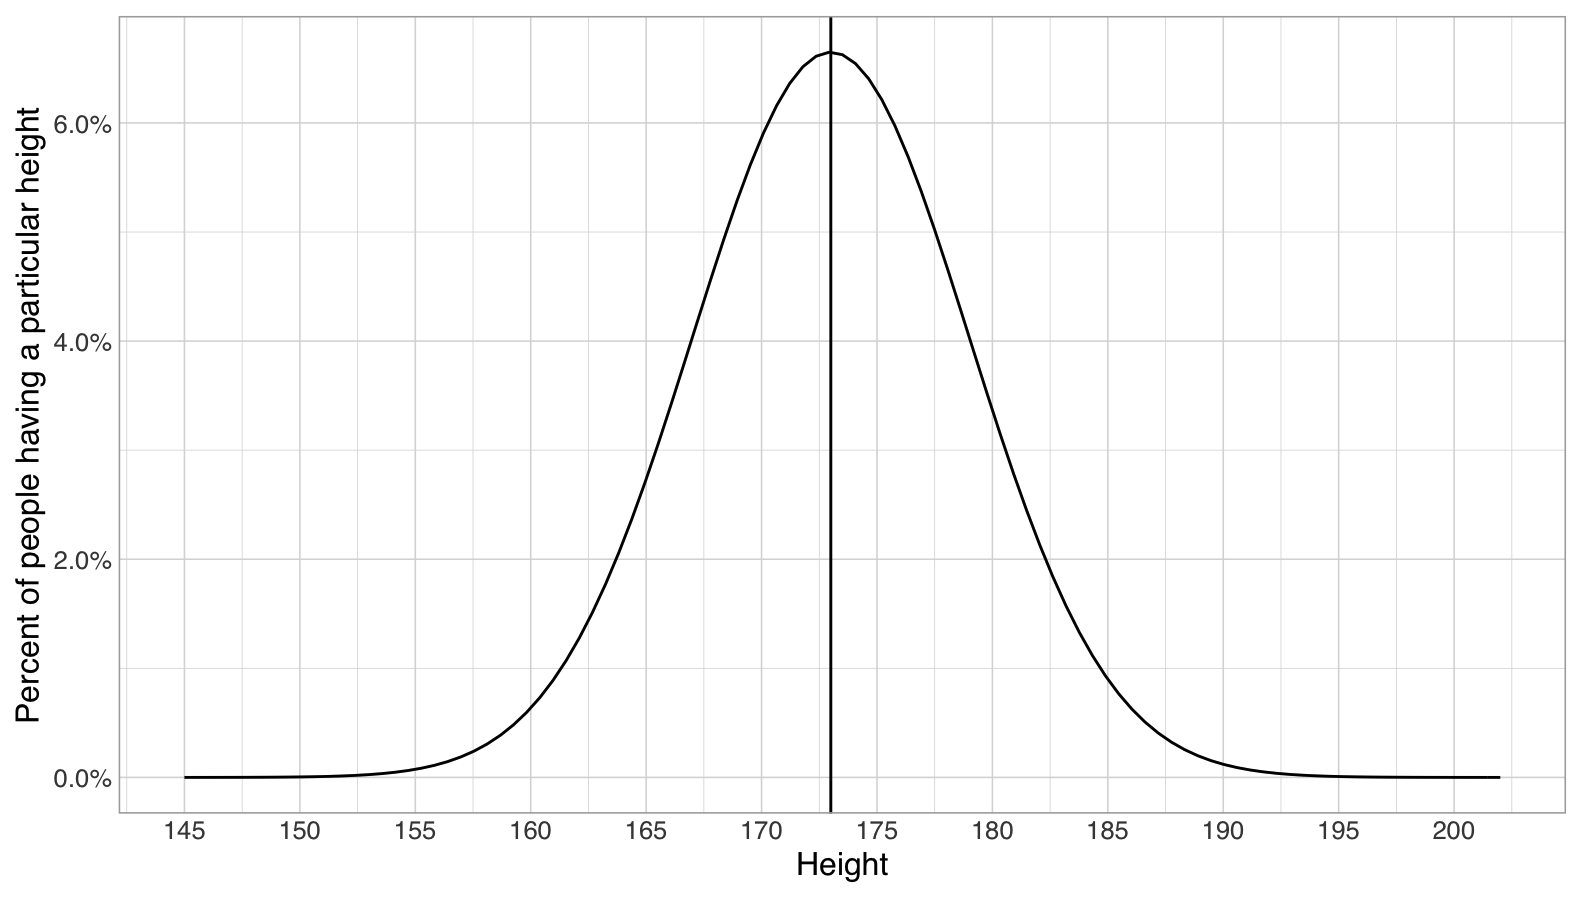
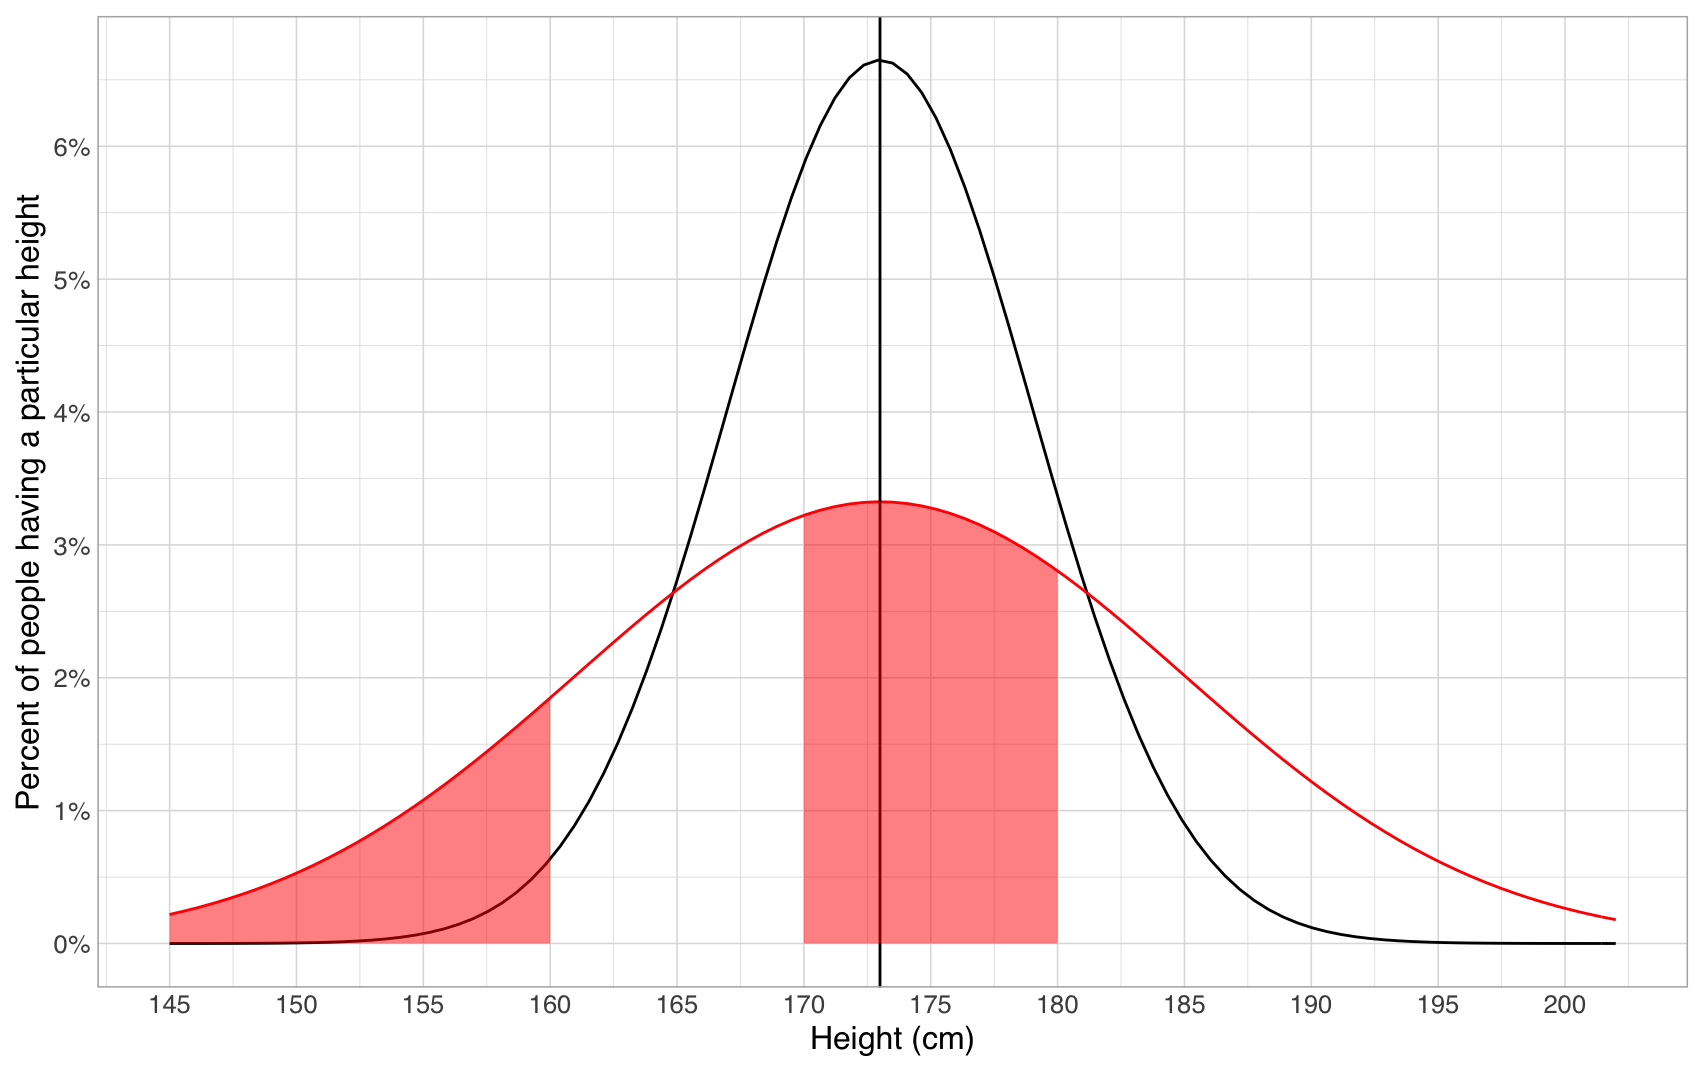
GitBook: [#190] update stats

diff --git a/data-analysis-fundamental-concepts-of-statistics.md b/data-analysis-fundamental-concepts-of-statistics.md
@@ -24,45 +24,57 @@ As a table, this tells us information about each individual. Further, we might o
 
 However, what if we want to look at the data as a whole, to see what it tells us about the lifespans of Finns as a whole? For this, we need to turn to statistics. Let us start with a simple visualization that just takes all two million people and plots their ages at death in increasing order:&#x20;
 
-![Ages at death of two million Finns, ordered by age at death](<.gitbook/assets/image (25).png>)
+![Ages at death of two million Finns, ordered by age at death](<.gitbook/assets/9795e3a8-c993-4487-a8be-92663c60d479 (1).png>)
 
-While this is not the way these types of data are usually presented, what does this visualization tell us? First, one can read proportions out of it. Because the people are ordered by age at death, looking at the midpoint of the graph (around the 1st millionth person) and looking at the age recorded there (around 77), we can say that 50% of Finns live to be older than 77. This works for any percentage: looking at around 100 000 (5% of 2 000 000) and finding the number 41, we can say that only 5% of Finns die before reaching that age, while looking at 1 800 000, we can conclude that only 10% of Finns live longer than 90 years.&#x20;
+While this is not the way these types of data are usually presented, what does this visualization tell us? First, one can read proportions out of it. Because the people are ordered by age at death, looking at the midpoint of the graph (around the 1st millionth person) and looking at the age recorded there (around 77), we can say that 50% of Finns live to be older than 77. This works for any percentage: looking at around 200 000 (10% of 2 000 000) and finding the number 52, we can say that only 10% of Finns die before reaching that age, while looking at 1 800 000, we can conclude that only 10% of Finns live longer than 90 years.&#x20;
 
 This works the other way around as well. For example, looking at age 40 and finding the number 100 000 (5% of 2 000 000), we can say that only 5% of Finns die before reaching 40. If we want to know the proportion of Finns who die between 40 and 80, we look up 80 (at about 1 200 000 or 60% of 2 000 000) and can calculate that 60%-5%(the proportion from 0 to 40)=55 per cent of Finns die in that time period.&#x20;
 
-So, only 5% of Finns die within the first 40 years of their lives, while 55% die in their next 40. Projecting this information back into the graph, we can see that in the horizontal bands where the graph moves up quickly, there are few people. In the bands where it moves up slowly, there are many more people.
+To make these calculations easier, we can replace the person number with their position in percentage of the dataset. Further, let's switch the X and Y axes with each other. In this format, the ensuing graph has a term associated with it: the empirical cumulative distribution function.
 
-To get a better overview of when people usually die, we can calculate the distribution of the data over the Age at death. What this means is that we take each Age at death, and count how many people die at that age. The resulting table looks like this:
+![The empirical cumulative distribution function of our data](<.gitbook/assets/image (17).png>)
+
+So, only 5% of Finns die within the first 40 years of their lives, while 55% die in their next 40. Projecting this information back into the graphs, we can see that in the first graph arranged by people, in the horizontal bands where the graph moves up quickly, there are few people. In the bands where it moves up slowly, there are many more people. In the graph arranged by age at death on the other hand this is reversed. Where the graph moves up slowly, there are few people, and where it moves quick, there are many.&#x20;
+
+While these graphs are good for dividing the data into percentages, from them it is still difficult to get a good idea of when exactly people are likely to die. To get a better overview of this, we need to move from cumulative graphs to ones showing local density. For this, we need to calculate the distribution of the data over the Age at death. What this means is that we take each Age at death, and count how many people die at that age. The resulting table looks like this:
 
 <table><thead><tr><th>Age at death</th><th data-type="number">Number of peoplle</th></tr></thead><tbody><tr><td>112</td><td>1</td></tr><tr><td>111</td><td>3</td></tr><tr><td>110</td><td>6</td></tr><tr><td>109</td><td>10</td></tr><tr><td>...</td><td>null</td></tr></tbody></table>
 
 Plotted visually, this table looks as follows:
 
-![The number of people dying at each age](<.gitbook/assets/image (19).png>)
+![The number of people dying at each age](.gitbook/assets/d1a37eea-94ff-4dc4-a5b4-c88490980c2c.png)
 
-From this visualization we can immediately see multiple things:
+Here, the height of each bar corresponds directly to the number of people dying at that age. This allows immediate look up and comparison of exact ages (e.g. that about 10 000 people died aged 50, while about double that many people died aged 60). Comparing ranges on the other hand now requires comparing the geometric area of the different regions in the graph. This is not something that humans are good at doing accurately, but general notions are still available.&#x20;
+
+For example, from this visualization we can immediately see the following things:
 
 1. Many people die in the first year of their lives
-2. After that, there is a small chance of dying before reaching 30, which seems to be very low between 1-15 and then increase somewhat in the late teen years.
-3. The average age at death by natural causes seems to be somewhere around 80 years, but there is a large variation of 10-20 years around that as well.
+2. After that, there is only a small chance of dying before reaching 30, which seems to be very low between 1-15 and then increase somewhat in the late teen years.
+3. After 30, the probability of death slowly increases. The average age at death by natural causes seems to be somewhere around 80 years, but there is a large variation of 10-20 years around that as well.
 
 This last observation takes us to a side path on summary statistics.
 
 ### What is average
 
-Before we get into the details, consider for a moment what you'd deduce from being told that the average height for adult Finns is 173 centimetres? Perhaps that about half of Finns are over 173cm tall and half under, and that 173cm is itself the most common height? You'll also have an inbuilt ideation of the variance - that there will be quite many people 160cm or 180cm in height, but much fewer people less than 150cm or over 190cm. All of these ideations depend on the fact that [height is normally distributed](https://ourworldindata.org/human-height#height-is-normally-distributed), i.e. the distribution of heights looks something like this:&#x20;
+{% hint style="info" %}
+Assignment
 
-![Height distribution of Finns](<.gitbook/assets/image (20).png>)
+Before reading on, consider for a moment what you could infer if you were told that the average height for adult Finns is 173 centimetres? Really - stop for a moment and think what could you intuitively infer from this information.
+{% endhint %}
+
+Perhaps you inferred that about half of Finns would be over 173cm tall and half under and that 173cm would itself be the most common height? You'll also have an inbuilt ideation of the variance - that there will probably be quite many people 160cm or 180cm in height, but much fewer people less than 150cm or over 190cm. All of these ideations depend on the fact that [height is normally distributed](https://ourworldindata.org/human-height#height-is-normally-distributed), i.e. the distribution of heights looks something like this:&#x20;
+
+![Height distribution of Finns](.gitbook/assets/dde9c4c1-38de-4420-b0a2-71e2b4265c45.png)
 
 With such data, summing it up in terms of an average value and the breadth of variation around it tells us everything we need to know about the data, and yields our intuitive understanding of what they mean in practice.&#x20;
 
-Note that even when not often given, an understanding of the breadth of variation is still crucial. For example, currently we're about ten times likely to meet a person who is about 170-180cm in height than to meet someone who is less than 160cm. If the variation was double, we'd only be twice as likely to meet someone between 170-180cm as someone less than 160cm (compare the black and red graphs below):
+Note that even when not often explicitly given, an understanding of the breadth of variation is still crucial to be able to draw inferences from data. For example, currently we're more than ten times likely to meet a person who is about 170-180cm in height than to meet someone who is less than 160cm. However, if there was double the amount of variation in how tall people are, we'd only be twice as likely to meet someone between 170-180cm as someone less than 160cm (compare the black and red graphs below):
 
-![What if there was more variance in people's heights?](<.gitbook/assets/image (16).png>)
+![The amount of people between 170-180cm as compared to those less than 160cm with the actual height variation](.gitbook/assets/fb2e5d16-82a5-4b77-8a7a-d22b652cdad0.png)
 
+![The amount of people between 170-180cm as compared to those less than 160cm if the variation in heights were double](<.gitbook/assets/image (20).png>)
 
-
-Okay, before I wrote that usually, our intuition on averages is that that is the most common value, as well as that 50% of values are larger and 50% smaller than the average. Before that, from the distribution plot of ages at death, I wrote that the average age at death by natural causes seemed to be somewhere around 80 years. However, if I calculate the arithmetic mean for the whole data, it turns out to be 73,82 years. And remember, from already the original plot we deduced that half of the people die before by age 77, while half live longer. Only by looking at which exact age most people died do we come close to 80, by getting 83 (67 943 people died aged 83). What does this all mean?
+Okay, before I wrote that usually, our intuition on averages is that that is the most common value, as well as that 50% of values are larger and 50% smaller than the average. Before that, from the distribution plot of ages at death, I wrote that the average age at death by natural causes seemed to be somewhere around 80 years. However, if I calculate the arithmetic mean for the whole data, it turns out to be 73,82 years. And remember, from already the original plot we deduced that half of the people die by age 77, while half live longer. Only by looking at which exact age most people died do we come close to 80, by getting 83 (67 943 people died aged 83). What does this all mean?
 
 It means that **because our age at death data is not completely normally distributed**, there is no longer a single neat average that would sum it up nicely. Instead, we are left with multiple numbers that measure different things. Formally, these are called different measures of central tendency:
 
@@ -70,7 +82,15 @@ It means that **because our age at death data is not completely normally distrib
 * The mode of 83 tells us that that is the most common age of death.
 * The arithmetic mean of 73,82 tells us that if we removed all the variation and distributed lifetimes equally, each Finn would live 73,82 years.
 
-When data is normally distributed, all of these measures point to the same number, yielding our intuition of what an average is. However, with non-normally distributed data, none of these measures anymore (even with a measure of variation added) sums up the whole truth of what goes on in the distribution.
+When data is normally distributed, all of these measures point to the same number, yielding our intuition of what an average is. However, with non-normally distributed data, none of these measures anymore (even with a measure of variation added) sums up the whole truth of what goes on in the distribution. Below, you will find each of these measures overlaid on top of the original density plot:
+
+![Measures of central tendency and the distribution](.gitbook/assets/c1719449-6a27-4899-9fe2-054965b8c9d7.png)
+
+Interpreted visually, the measures show the following:
+
+* the mean shows the balance point of the distribution. If the distribution were to be hinged upon this point, it would stay level. For this distribution, this means that because there is a large mass of deaths at zero years far away from the bulk of the distribution, the mean is less than the other measures.
+* the median shows the point which divides the geometric area of the distribution in half (here showing again how hard it is for people to compare areas of different shapes)
+* the mode merely shows the singular point where the distribution is highest. Here this works out well, but the mode is volatile. For example, if the central mass of the distribution was much more spread out and the outlier at zero years was higher, that might end up being the mode of the whole distribution, even if the general shape of it stayed otherwise the same.
 
 
 
